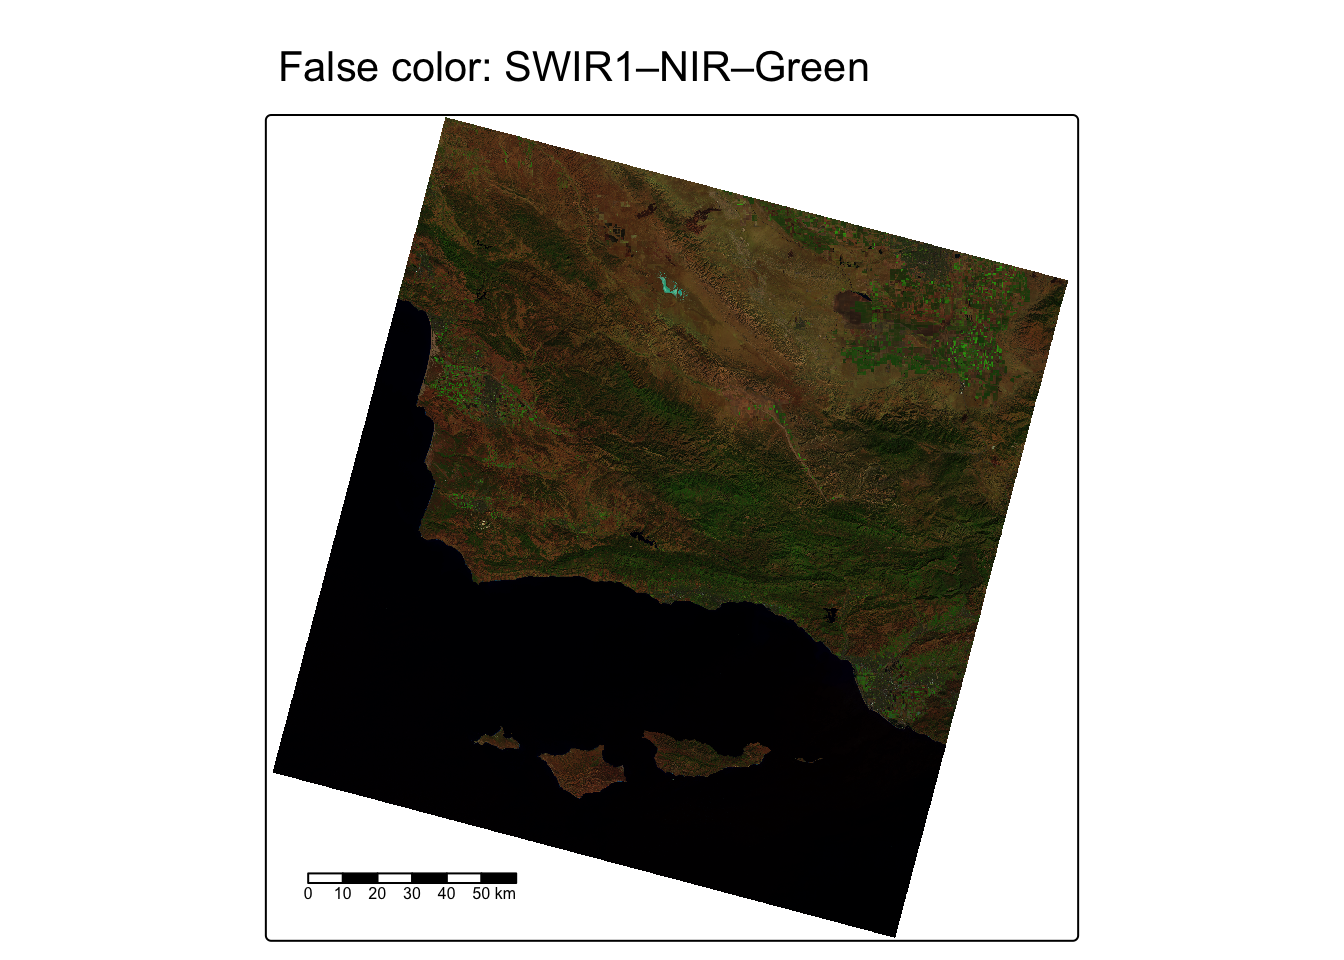
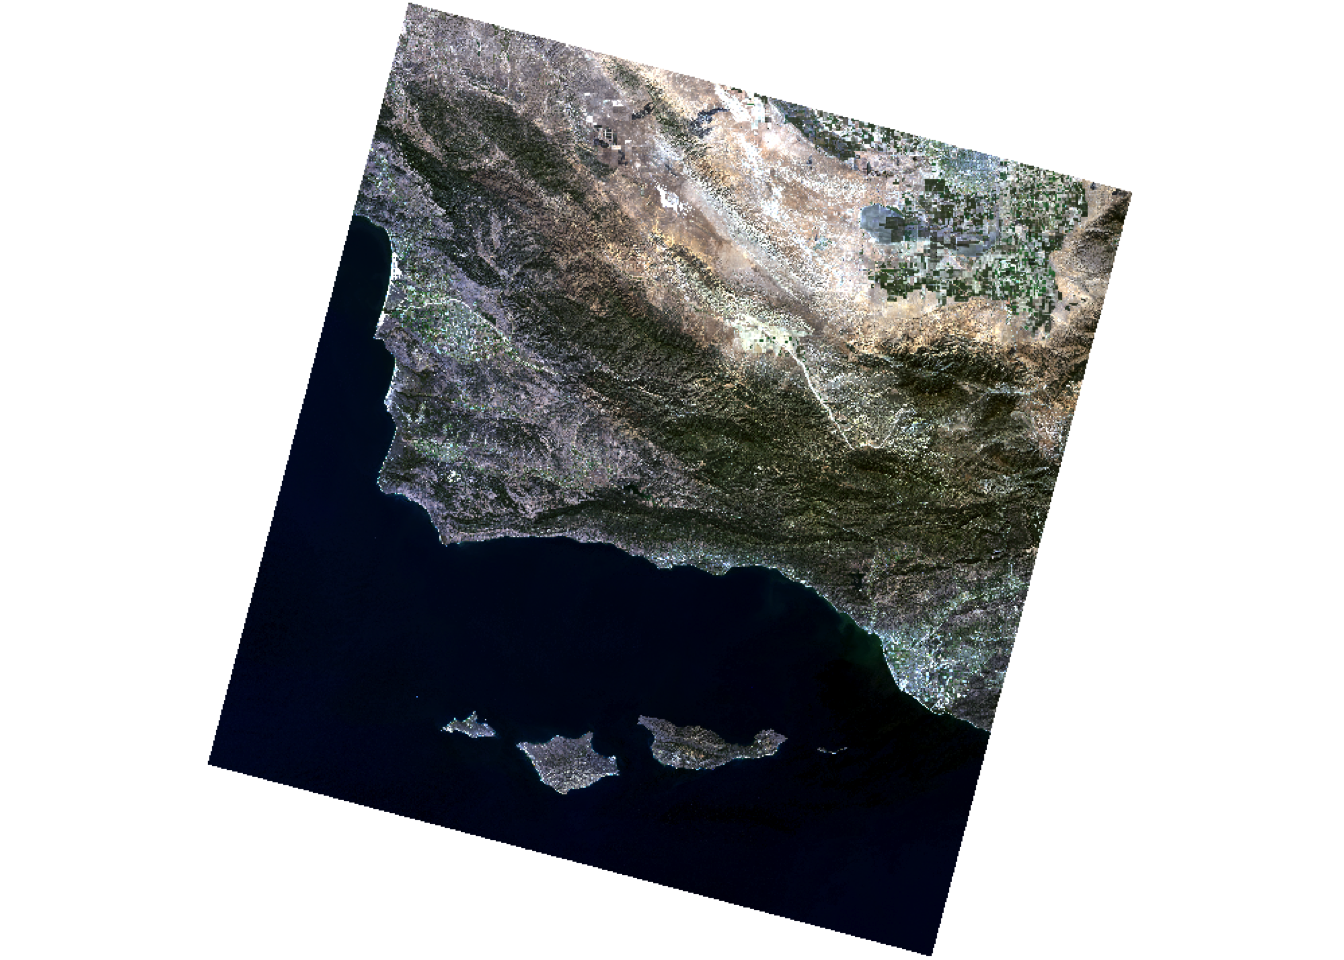
Move ndvi from lab 7 g

diff --git a/docs/course-materials/labs/week7.html b/docs/course-materials/labs/week7.html
@@ -7,7 +7,7 @@
 <meta name="viewport" content="width=device-width, initial-scale=1.0, user-scalable=yes">
 
 <meta name="author" content="Annie Adams">
-<meta name="dcterms.date" content="2026-11-11">
+<meta name="dcterms.date" content="2026-11-12">
 
 <title>Week 7: Lab</title>
 <style>
@@ -256,7 +256,7 @@ window.Quarto = {
       <div>
       <div class="quarto-title-meta-heading">Published</div>
       <div class="quarto-title-meta-contents">
-        <p class="date">November 11, 2026</p>
+        <p class="date">November 12, 2026</p>
       </div>
     </div>
     
@@ -294,7 +294,6 @@ window.Quarto = {
   <li><a href="#vegetation-false-color-nir-red-green" id="toc-vegetation-false-color-nir-red-green" class="nav-link" data-scroll-target="#vegetation-false-color-nir-red-green">Vegetation false color (NIR, Red, Green)</a></li>
   <li><a href="#swir-false-color-swir1-nir-green" id="toc-swir-false-color-swir1-nir-green" class="nav-link" data-scroll-target="#swir-false-color-swir1-nir-green">SWIR false color (SWIR1, NIR, Green)</a></li>
   </ul></li>
-  <li><a href="#ndvi" id="toc-ndvi" class="nav-link" data-scroll-target="#ndvi">7. NDVI</a></li>
   </ul>
 </nav>
     </div>
@@ -1024,69 +1023,9 @@ max 0.74501 0.7985525 0.84093   1     1     1</code></pre>
 </div>
 </div>
 </div>
-</section>
-</section>
-<section id="ndvi" class="level2">
-<h2 class="anchored" data-anchor-id="ndvi">7. NDVI</h2>
-<p>The <strong>Normalized Difference Vegetation Index (NDVI)</strong> quantifies vegetation density and health using the contrast between how plants reflect near-infrared light (strongly) versus red light (absorbed for photosynthesis):</p>
-<p><span class="math display">\[\text{NDVI} = \frac{NIR - Red}{NIR + Red}\]</span></p>
-<p>NDVI ranges from −1 to 1. Values above ~0.3 generally indicate healthy vegetation; bare soil falls near 0 (slightly positive); negative values correspond to water, snow, or clouds.</p>
-<div class="cell">
-<div class="code-copy-outer-scaffold"><div class="sourceCode cell-code" id="cb27"><pre class="sourceCode r code-with-copy"><code class="sourceCode r"><span id="cb27-1"><a href="#cb27-1" aria-hidden="true" tabindex="-1"></a><span class="co"># define NDVI as the normalized difference between NIR and red bands</span></span>
-<span id="cb27-2"><a href="#cb27-2" aria-hidden="true" tabindex="-1"></a>ndvi_fun <span class="ot">&lt;-</span> <span class="cf">function</span>(nir, red){</span>
-<span id="cb27-3"><a href="#cb27-3" aria-hidden="true" tabindex="-1"></a>  (nir <span class="sc">-</span> red) <span class="sc">/</span> (nir <span class="sc">+</span> red)</span>
-<span id="cb27-4"><a href="#cb27-4" aria-hidden="true" tabindex="-1"></a>}</span>
-<span id="cb27-5"><a href="#cb27-5" aria-hidden="true" tabindex="-1"></a></span>
-<span id="cb27-6"><a href="#cb27-6" aria-hidden="true" tabindex="-1"></a><span class="co"># apply NDVI function to scaled reflectance values</span></span>
-<span id="cb27-7"><a href="#cb27-7" aria-hidden="true" tabindex="-1"></a>ndvi_rast <span class="ot">&lt;-</span> <span class="fu">lapp</span>(landsat_scaled[[<span class="fu">c</span>(<span class="st">"NIR"</span>, <span class="st">"red"</span>)]], <span class="at">fun =</span> ndvi_fun)</span></code></pre></div><button title="Copy to Clipboard" class="code-copy-button"><i class="bi"></i></button></div>
-<div class="cell-output cell-output-stdout">
-<pre><code>
-|---------|---------|---------|---------|
-=========================================
-                                          </code></pre>
-</div>
-<div class="code-copy-outer-scaffold"><div class="sourceCode cell-code" id="cb29"><pre class="sourceCode r code-with-copy"><code class="sourceCode r"><span id="cb29-1"><a href="#cb29-1" aria-hidden="true" tabindex="-1"></a><span class="fu">tm_shape</span>(ndvi_rast) <span class="sc">+</span></span>
-<span id="cb29-2"><a href="#cb29-2" aria-hidden="true" tabindex="-1"></a>  <span class="fu">tm_raster</span>(<span class="at">col.scale =</span> <span class="fu">tm_scale_continuous</span>(</span>
-<span id="cb29-3"><a href="#cb29-3" aria-hidden="true" tabindex="-1"></a>    <span class="at">values   =</span> <span class="st">"brewer.rd_yl_gn"</span></span>
-<span id="cb29-4"><a href="#cb29-4" aria-hidden="true" tabindex="-1"></a>  ),</span>
-<span id="cb29-5"><a href="#cb29-5" aria-hidden="true" tabindex="-1"></a>  <span class="at">col.legend =</span> <span class="fu">tm_legend</span>(<span class="at">title =</span> <span class="st">"NDVI"</span>,</span>
-<span id="cb29-6"><a href="#cb29-6" aria-hidden="true" tabindex="-1"></a>                         <span class="at">position =</span> <span class="fu">tm_pos_out</span>(<span class="st">"right"</span>, <span class="st">"top"</span>))) <span class="sc">+</span></span>
-<span id="cb29-7"><a href="#cb29-7" aria-hidden="true" tabindex="-1"></a>  <span class="fu">tm_title</span>(<span class="st">"NDVI"</span>) <span class="sc">+</span></span>
-<span id="cb29-8"><a href="#cb29-8" aria-hidden="true" tabindex="-1"></a>  <span class="fu">tm_scalebar</span>(<span class="at">position =</span> <span class="fu">c</span>(<span class="st">"left"</span>, <span class="st">"bottom"</span>))</span></code></pre></div><button title="Copy to Clipboard" class="code-copy-button"><i class="bi"></i></button></div>
-<div class="cell-output cell-output-stderr">
-<pre><code>SpatRaster object downsampled to 3189 by 3137 cells.</code></pre>
-</div>
-<div class="cell-output cell-output-stderr">
-<pre><code>[`tm_scale_continous()`] Variable(s) "col" contains positive and negative
-values, so midpoint is set to 0. Set midpoint = NA to show the full range of
-visual values.
-This message is displayed once per session.</code></pre>
-</div>
-<div class="cell-output-display">
-<div>
-<figure class="figure">
-<p><img src="week7_files/figure-html/unnamed-chunk-14-1.png" class="img-fluid figure-img" width="672"></p>
-</figure>
-</div>
-</div>
-</div>
-<div class="callout callout-style-default callout-warning callout-titled">
-<div class="callout-header d-flex align-content-center">
-<div class="callout-icon-container">
-<i class="callout-icon"></i>
-</div>
-<div class="callout-title-container flex-fill">
-<span class="screen-reader-only">Warning</span>Explore NDVI
-</div>
-</div>
-<div class="callout-body-container callout-body">
-<ul>
-<li>How do the high-NDVI areas correspond to what you observed in the vegetation false color composite?</li>
-</ul>
-</div>
-</div>
 
 
+</section>
 </section>
 
 </main> <!-- /main -->
